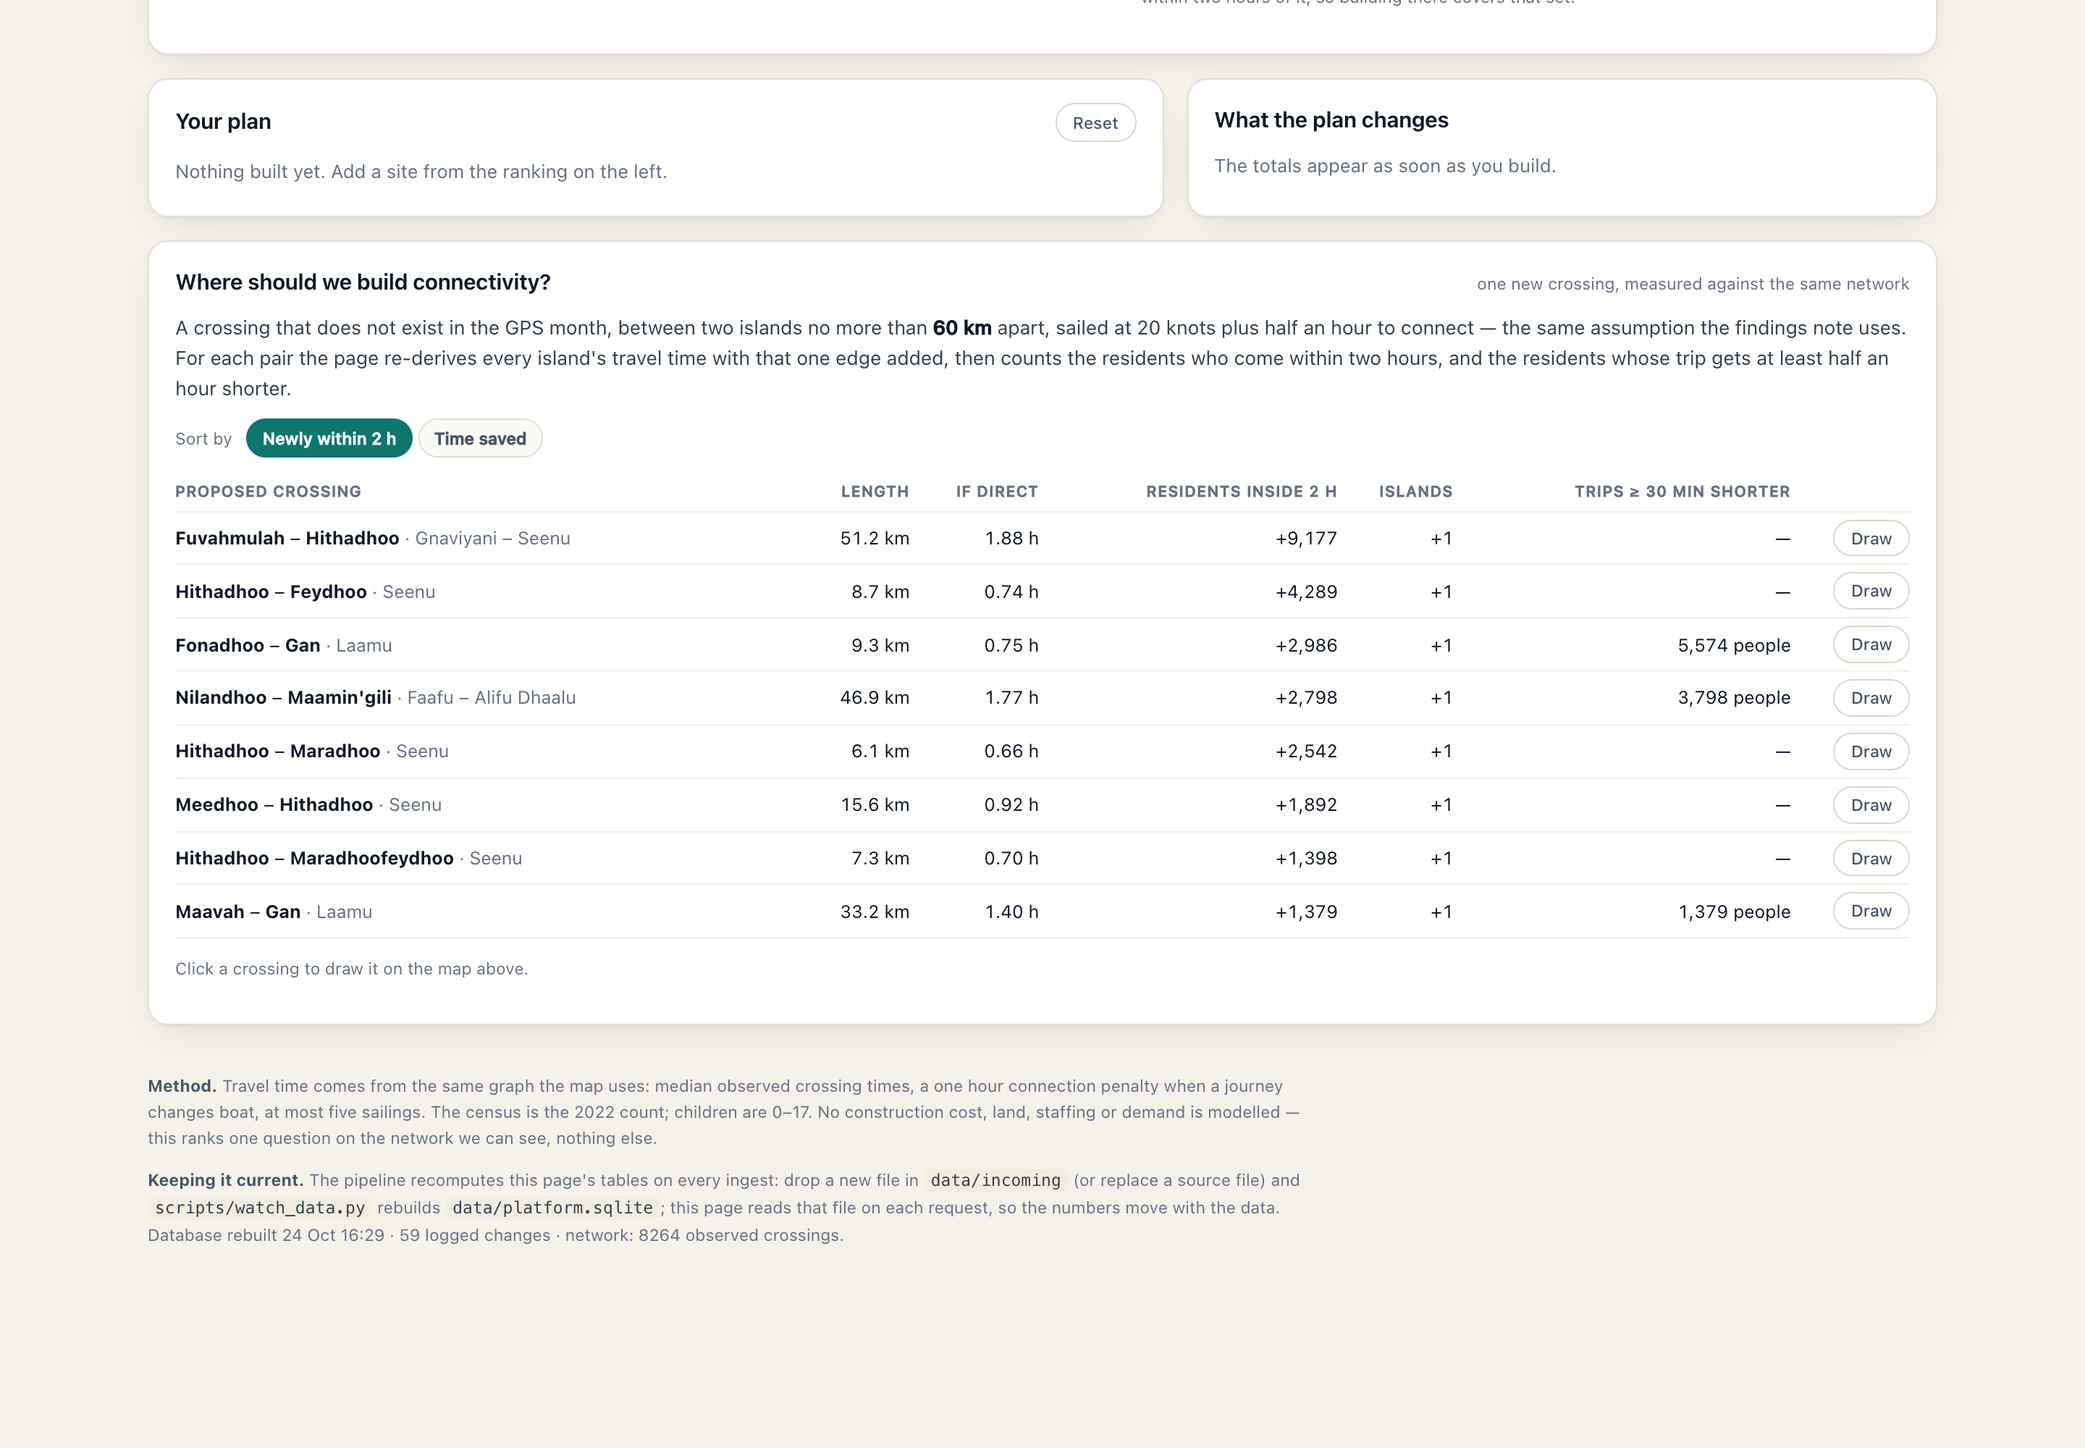
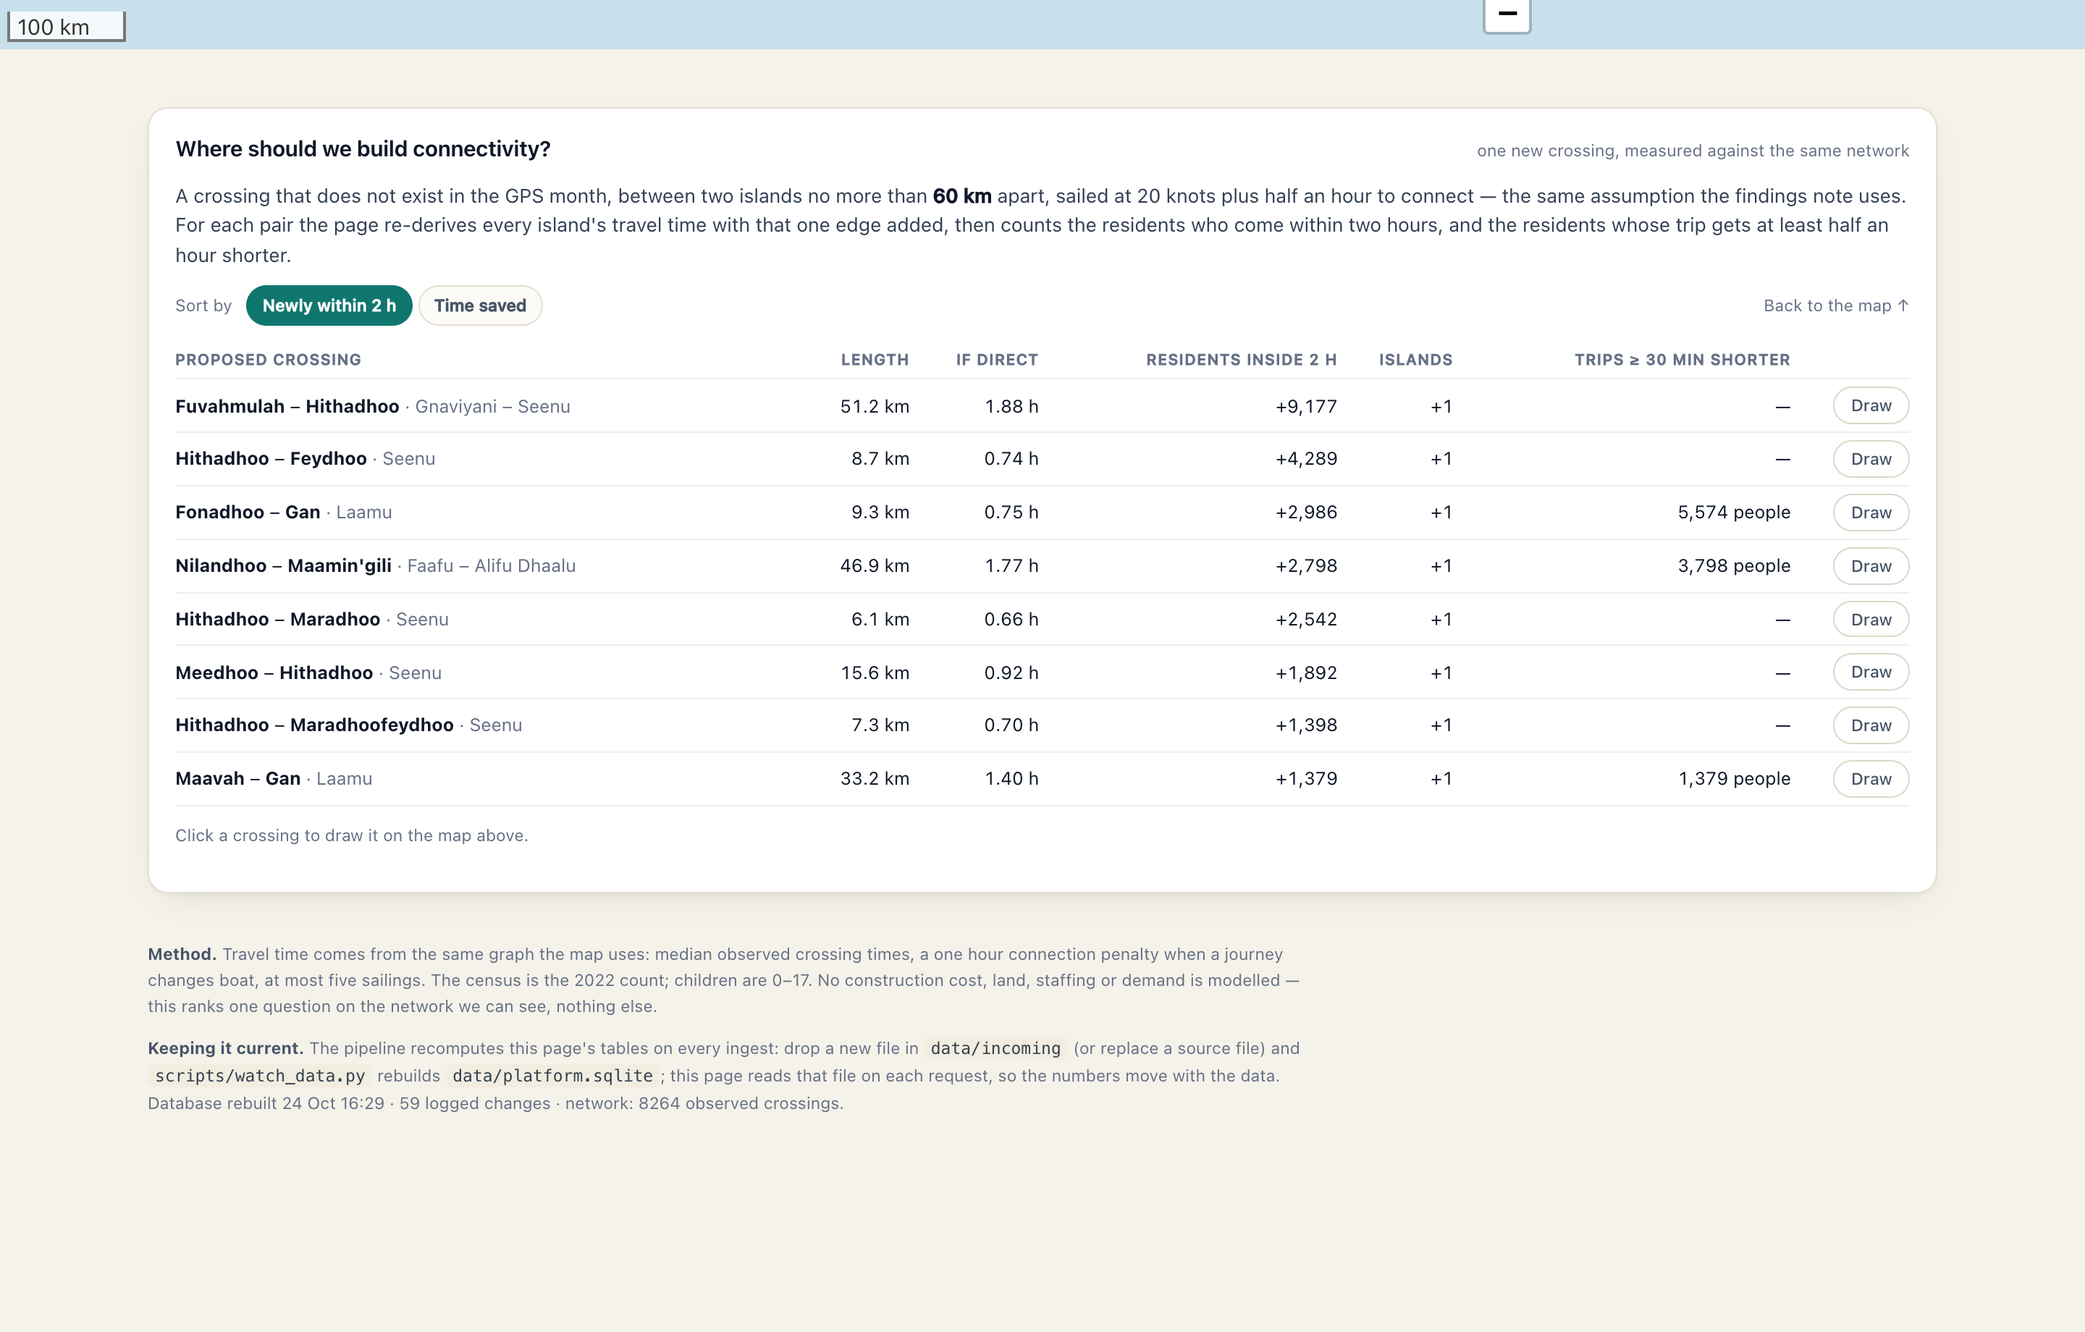
One shell for both pages: shared header and page switcher, full-bleed build map
- _topbar.html: eyebrow, page title, Map | Where to build, island and resident chips
- index.html and build.html both include it; the brandline and overlay switcher move out of the panels
- build page becomes a full-bleed stage: map fills the viewport, ranking in the right panel,
  plan and today's numbers in the left panel, crossings table below
- stage height follows the header (64px) so neither page scrolls by a sliver
- candidate table gets fixed columns; zoom control moves clear of the left panel; mobile stacks

diff --git a/web/access/templates/access/build.html b/web/access/templates/access/build.html
@@ -1,60 +1,50 @@
 {% extends "access/base.html" %}
 {% load fmt %}
 {% block body %}
-<header class="topbar">
-  <div class="brand">
-    <p class="eyebrow">Maldives Datathon 2026 · A Team</p>
-    <h1>Where should the next service go?</h1>
-  </div>
-  <nav class="nav" aria-label="Pages">
-    <a href="/">Map</a>
-    <a href="/build/" class="is-on" aria-current="page">Build</a>
-  </nav>
-  <div class="chips">
-    <span class="chip num"><span class="n">{{ stats.islands }}</span><span class="l">inhabited islands</span></span>
-    <span class="chip num"><span class="n">{{ stats.population|num }}</span><span class="l">residents</span></span>
-  </div>
-</header>
+{% include "access/_topbar.html" with active="build" %}
+<main class="stage stage-build" id="stage">
+  <div id="buildmap" role="img"
+       aria-label="Map of the Maldives: dots are inhabited islands, numbered pins are candidate sites"></div>
 
-<main class="page">
-  <section class="card">
-    <div class="cardhead">
-      <h2>Where should the next service go?</h2>
-      <span class="hint">ranked by residents who would come within 2 hours</span>
-    </div>
-    <p class="prose">
-      Pick a service, then a candidate. <em>Build here</em> puts a facility on that island and the
-      ranking updates as if it were there: everyone it brings within two hours of the service is
-      counted once, from the network we actually observe. The picks compound — the second facility
-      is scored after the first one exists.
-    </p>
+  <aside class="ovl ovl-left wide ovl-build">
+    <h2 class="ovltitle">Where should the next service go?</h2>
+    <p class="ovlsub">Ranked by the residents each site would bring within 2 hours of the service.</p>
 
     <div class="tabs" id="typeTabs" role="tablist" aria-label="Service type"></div>
+    <div class="figs figs-4" id="figs"></div>
 
-    <div class="buildgrid">
-      <div>
-        <div id="buildmap" class="simmap" role="img"
-             aria-label="Map of the Maldives: dots are islands, numbered pins are candidate sites"></div>
-        <ul class="legend-line">
-          <li><i class="dot own"></i>already within 2 h</li>
-          <li><i class="dot unknown"></i>beyond 2 h</li>
-          <li><span class="pin pin-sm">1</span>top candidate</li>
-          <li><i class="dot new"></i>would join with this build</li>
-          <li><i class="dot link"></i>proposed crossing</li>
-        </ul>
-        <p class="hint" id="mapline">Every dot is an inhabited island, sized by population. Click a numbered pin or a row to preview what that build would add; zoom in for more candidate pins.</p>
-      </div>
+    <div class="planhead">
+      <h3>Your plan</h3>
+      <button class="ghost" id="resetPlan" type="button">Reset</button>
+    </div>
+    <div id="planBody"><p class="empty">Nothing built yet — add a site from the list on the right.</p></div>
+    <div id="planTotals"></div>
 
-      <div class="buildside">
-        <div class="figs figs-4" id="figs"></div>
-        <div class="tabletop">
-          <span class="hint">Rank by</span>
-          <div class="tabs" id="rankTabs" role="group" aria-label="Rank candidates by">
-            <button class="tab is-on" data-rank="people" type="button">People</button>
-            <button class="tab" data-rank="islands" type="button">Islands</button>
-            <button class="tab" data-rank="children" type="button">Children</button>
-          </div>
+    <ul class="legend-line">
+      <li><i class="dot own"></i>within 2 h</li>
+      <li><i class="dot unknown"></i>beyond 2 h</li>
+      <li><span class="pin pin-sm">1</span>candidate</li>
+      <li><i class="dot new"></i>would join</li>
+      <li><i class="dot link"></i>crossing</li>
+    </ul>
+    <p class="ovlfoot">
+      {{ stats.islands }} inhabited islands · {{ stats.population|num }} residents. Every dot is an
+      island, sized by population; click a pin or a row to preview that build.
+      Crossings are <a href="#connectivity">further down ↓</a>
+    </p>
+  </aside>
+
+  <aside class="ovl ovl-right ovl-build-right">
+    <div class="card">
+      <div class="cardhead">
+        <h2>Where to build next</h2>
+        <div class="tabs" id="rankTabs" role="group" aria-label="Rank candidates by">
+          <button class="tab is-on" data-rank="people" type="button">People</button>
+          <button class="tab" data-rank="islands" type="button">Islands</button>
+          <button class="tab" data-rank="children" type="button">Children</button>
         </div>
+      </div>
+      <div class="candscroll">
         <table class="mini candtable">
           <thead>
             <tr><th></th><th>Island</th><th class="r">Residents</th><th class="r">Islands</th>
@@ -62,29 +52,17 @@
           </thead>
           <tbody id="candBody"></tbody>
         </table>
-        <p class="hint" id="candhint">
-          Candidates are islands that do not host the service today. A site's coverage is the set of
-          islands within two hours of it, so building there covers that set.
-        </p>
       </div>
+      <p class="hint" id="candhint">
+        Candidates are islands that do not host the service today. A site's coverage is the set of
+        islands within two hours of it, so building there covers that set.
+      </p>
     </div>
-  </section>
+  </aside>
+</main>
 
-  <section class="grid2" id="planrow">
-    <div class="card">
-      <div class="cardhead">
-        <h2>Your plan</h2>
-        <button class="ghost" id="resetPlan" type="button">Reset</button>
-      </div>
-      <div id="planBody"><p class="empty">Nothing built yet. Add a site from the ranking on the left.</p></div>
-    </div>
-    <div class="card">
-      <div class="cardhead"><h2>What the plan changes</h2></div>
-      <div id="planTotals"><p class="empty">The totals appear as soon as you build.</p></div>
-    </div>
-  </section>
-
-  <section class="card">
+<main class="page page-build">
+  <section class="card" id="connectivity">
     <div class="cardhead">
       <h2>Where should we build connectivity?</h2>
       <span class="hint">one new crossing, measured against the same network</span>
@@ -102,6 +80,7 @@
         <button class="tab is-on" data-sort="new" type="button">Newly within 2 h</button>
         <button class="tab" data-sort="saved" type="button">Time saved</button>
       </div>
+      <a class="hint back-top" href="#stage">Back to the map ↑</a>
     </div>
     <table class="mini linktable">
       <thead>
@@ -200,7 +179,8 @@ const map = L.map("buildmap", {zoomSnap: .25, minZoom: 5, maxZoom: 12, zoomContr
 L.control.zoom({position: "bottomright"}).addTo(map);
 L.control.scale({imperial: false, position: "bottomleft", maxWidth: 90}).addTo(map);
 map.fitBounds(L.latLngBounds(ISLES.map(p => [p.lat, p.lon])), {padding: [14, 14], maxZoom: 7});
-setTimeout(() => map.invalidateSize(), 0);
+window.addEventListener("resize", () => { map.invalidateSize(); renderMap(); });
+setTimeout(() => { map.invalidateSize(); }, 60);
 fetch("/static/access/atolls.geojson").then(r => r.json()).then(gj => {
   L.geoJSON(gj, {interactive: false, style: {color: "#9fb6bf", weight: .7, opacity: .55,
                                              fill: false}}).addTo(map).bringToBack();
@@ -337,8 +317,8 @@ function renderTable() {
 function renderPlan() {
   const t = type();
   if (!state.built.length) {
-    el("planBody").innerHTML = `<p class="empty">Nothing built yet. Add a site from the ranking on the left.</p>`;
-    el("planTotals").innerHTML = `<p class="empty">The totals appear as soon as you build.</p>`;
+    el("planBody").innerHTML = `<p class="empty">Nothing built yet — add a site from the list on the right.</p>`;
+    el("planTotals").innerHTML = `<p class="empty">The totals appear here once you build.</p>`;
     return;
   }
   el("planBody").innerHTML = `<ol class="planlist">` + state.built.map((i, n) => {

diff --git a/web/access/static/access/app.css b/web/access/static/access/app.css
@@ -879,3 +879,110 @@ main.stage { height: 100vh; }
 }
 .ovlnav a:hover { background: #f4efe4; }
 .ovlnav a.is-on { background: var(--teal); border-color: var(--teal); color: #fff; }
+
+/* =====================================================================================
+   BUILD PAGE, FULL-BLEED — same skeleton as the home map: the map is the page, the
+   ranking and the plan sit in overlay panels, the crossings table scrolls below it.
+   ===================================================================================== */
+.stage-build { height: 100vh; min-height: 620px; }
+.stage-build #buildmap {
+  position: absolute; inset: 0; z-index: 0;
+  background: radial-gradient(120% 90% at 50% 0%, #eaf5f9 0%, #d8ebf2 48%, #c8e0eb 100%);
+}
+.stage-build #buildmap.leaflet-container { font: inherit; }
+
+.ovl-build { overflow: auto; overscroll-behavior: contain; bottom: auto; max-height: calc(100% - 28px); }
+.ovl-build::-webkit-scrollbar { width: 8px; }
+.ovl-build::-webkit-scrollbar-thumb { background: #d9d2c4; border-radius: 99px; }
+.ovltitle { margin: 4px 0 3px; font-size: 17px; line-height: 1.25; letter-spacing: -.01em; }
+.ovlsub { margin: 0 0 11px; font-size: 11.5px; line-height: 1.45; color: var(--muted); }
+.ovl-build #typeTabs { margin: 0 0 12px; gap: 5px; }
+.ovl-build #typeTabs .tab { font-size: 11.5px; padding: 5px 10px; }
+.ovl-build .figs-4 { grid-template-columns: 1fr 1fr; gap: 7px; margin: 0 0 4px; }
+.ovl-build .figs-4 div { padding: 7px 9px; border-radius: 9px; }
+.ovl-build .figs-4 .n { font-size: 16px; }
+.ovl-build .figs-4 .l { font-size: 9px; letter-spacing: .03em; }
+.ovl-build .planhead { margin: 12px 0 7px; }
+.ovl-build .planlist li { font-size: 12px; gap: 7px; }
+.ovl-build .planlist .pin { width: 18px; height: 18px; font-size: 10px; }
+.ovl-build #planTotals .figs-4 { margin-top: 9px; }
+.ovl-build #planTotals .figs-4 .n { font-size: 14.5px; }
+.ovl-build .legend-line { margin: 11px 0 0; gap: 4px 10px; font-size: 10.5px; }
+.ovl-build .ovlfoot { margin: 10px 0 0; font-size: 10.5px; line-height: 1.5; color: var(--muted); }
+.ovl-build .ovlfoot a { color: var(--teal); text-decoration: none; white-space: nowrap; }
+.ovl-build .ovlfoot a:hover { text-decoration: underline; }
+.planhead { display: flex; align-items: center; justify-content: space-between; gap: 8px; }
+.planhead h3 {
+  margin: 0; font-size: 10.5px; font-weight: 640; letter-spacing: .07em;
+  text-transform: uppercase; color: var(--muted);
+}
+
+.ovl-build-right { width: 524px; }
+.ovl-build-right .card { padding: 12px 12px 10px; display: flex; flex-direction: column; gap: 8px; }
+.ovl-build-right .cardhead { align-items: center; gap: 8px; flex-wrap: wrap; }
+.ovl-build-right .cardhead h2 { font-size: 15px; }
+.ovl-build-right .candtable { margin: 0; }
+.candscroll { overflow: auto; overscroll-behavior: contain; margin: 0 -4px; padding: 0 4px; max-height: calc(100vh - 300px); }
+.candscroll thead th {
+  position: sticky; top: 0; z-index: 2;
+  background: rgba(255,255,255,.98); box-shadow: 0 1px 0 var(--line);
+}
+.ovl-build-right #candhint { margin: 0; font-size: 10.5px; line-height: 1.45; }
+
+.page-build { margin-top: 20px; }
+.back-top { margin-left: auto; text-decoration: none; white-space: nowrap; }
+.back-top:hover { color: var(--teal); }
+
+@media (max-height: 760px) {
+  .ovl-build .figs-4 { grid-template-columns: repeat(4, 1fr); }
+  .ovl-build .figs-4 .l { font-size: 8.5px; }
+}
+
+@media (max-width: 1180px) {
+  .ovl-build-right { width: 420px; }
+  .ovl-build-right .candtable th, .ovl-build-right .candtable td { padding: 6px 5px; }
+}
+
+@media (max-width: 980px) {
+  .stage-build { height: auto; min-height: 0; padding: 10px; display: flex; flex-direction: column; gap: 10px; }
+  .stage-build #buildmap {
+    position: relative; inset: auto; height: 58vh; min-height: 340px;
+    border-radius: 13px; border: 1px solid var(--line); overflow: hidden;
+  }
+  .stage-build .ovl {
+    position: static; width: auto; max-height: none; overflow: visible;
+    background: #fff; border: 1px solid var(--line); box-shadow: none; padding: 12px;
+  }
+  .ovl-build-right { width: auto; }
+  .candscroll { max-height: 46vh; }
+  .back-top { display: none; }
+}
+
+/* =====================================================================================
+   ONE SHELL — both pages start with the same masthead and the same page switcher; the
+   map fills exactly the viewport that is left, so the two pages read as one product.
+   ===================================================================================== */
+:root { --topbar-h: 64px; }
+.topbar { position: relative; z-index: 800; }
+.topbar h1 { font-size: 17.5px; }
+main.stage, main.stage.stage-build { height: calc(100dvh - var(--topbar-h)); min-height: 540px; }
+.stage-build { min-height: 600px; }
+
+@media (max-width: 980px) {
+  :root { --topbar-h: 0px; }
+  .topbar { position: static; }
+  main.stage, main.stage.stage-build { height: auto; min-height: 0; }
+  .stage #map, .stage-build #buildmap { height: 62vh; min-height: 340px; }
+}
+
+/* candidate table: six fixed columns so the header never collides with the numbers */
+.ovl-build-right .candtable { table-layout: fixed; width: 100%; }
+.ovl-build-right .candtable th:nth-child(1), .ovl-build-right .candtable td:nth-child(1) { width: 24px; }
+.ovl-build-right .candtable th:nth-child(3), .ovl-build-right .candtable td:nth-child(3) { width: 78px; }
+.ovl-build-right .candtable th:nth-child(4), .ovl-build-right .candtable td:nth-child(4) { width: 56px; }
+.ovl-build-right .candtable th:nth-child(5), .ovl-build-right .candtable td:nth-child(5) { width: 64px; }
+.ovl-build-right .candtable th:nth-child(6), .ovl-build-right .candtable td:nth-child(6) { width: 76px; }
+.ovl-build-right .candtable td:nth-child(2) { line-height: 1.3; }
+.ovl-build-right .candtable td:nth-child(2) .muted { font-size: 10.5px; }
+.ovl-build-right .candtable th:nth-child(3), .ovl-build-right .candtable th:nth-child(4),
+.ovl-build-right .candtable th:nth-child(5) { font-size: 9.2px; letter-spacing: .02em; }

diff --git a/web/access/templates/access/index.html b/web/access/templates/access/index.html
@@ -1,6 +1,7 @@
 {% extends "access/base.html" %}
 {% load fmt %}
 {% block body %}
+{% include "access/_topbar.html" with active="map" %}
 <main class="stage" id="stage">
   <div id="map"
        data-default-from="{{ default_from }}"
@@ -9,11 +10,6 @@
        aria-label="Map of the Maldives: circle size is population, colour is travel time to the nearest grade 11–12 school"></div>
 
   <aside class="ovl ovl-left">
-    <p class="brandline">Maldives Datathon 2026 <i>·</i> <b>A Team</b></p>
-    <nav class="ovlnav" aria-label="Pages">
-      <a href="/" class="is-on" aria-current="page">Map</a>
-      <a href="/build/">Where to build</a>
-    </nav>
     <div class="row2">
       <div class="combo wide" id="islandCombo">
         <input id="islandText" class="combotext" type="text" placeholder="Select an island…"

diff --git a/web/access/templates/access/_topbar.html b/web/access/templates/access/_topbar.html
@@ -1,0 +1,15 @@
+{% load fmt %}
+<header class="topbar">
+  <div class="brand">
+    <p class="eyebrow">Maldives Datathon 2026 · A Team</p>
+    <h1>{% if active == "build" %}Where should we build next?{% else %}How far is the nearest school or hospital?{% endif %}</h1>
+  </div>
+  <nav class="nav" aria-label="Pages">
+    <a href="/" {% if active != "build" %}class="is-on" aria-current="page"{% endif %}>Map</a>
+    <a href="/build/" {% if active == "build" %}class="is-on" aria-current="page"{% endif %}>Where to build</a>
+  </nav>
+  <div class="chips">
+    <span class="chip num"><span class="n">{{ stats.islands }}</span><span class="l">inhabited islands</span></span>
+    <span class="chip num"><span class="n">{{ stats.population|num }}</span><span class="l">residents</span></span>
+  </div>
+</header>

diff --git a/web/access/views.py b/web/access/views.py
@@ -104,6 +104,7 @@ def index(request):
         island = DEFAULT_ISLAND
     return render(request, "access/index.html", {
         "s": m.stats(),
+        "stats": m.stats(),
         "islands": m.picker,
         "atolls": m.atolls,
         "rows": rows,
